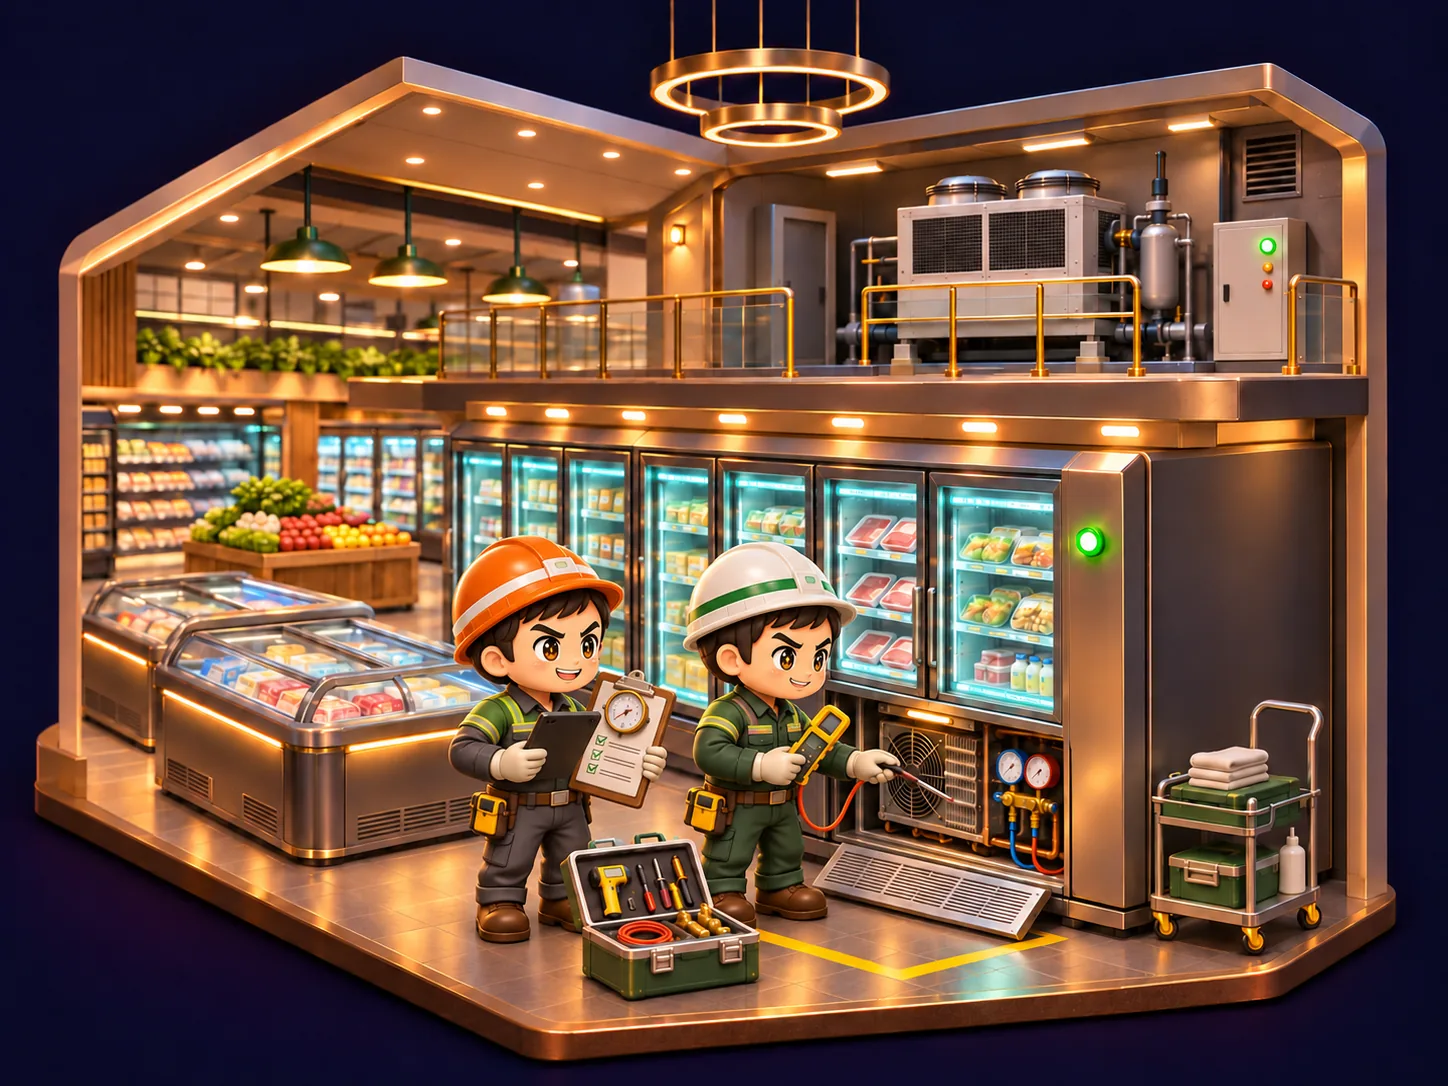
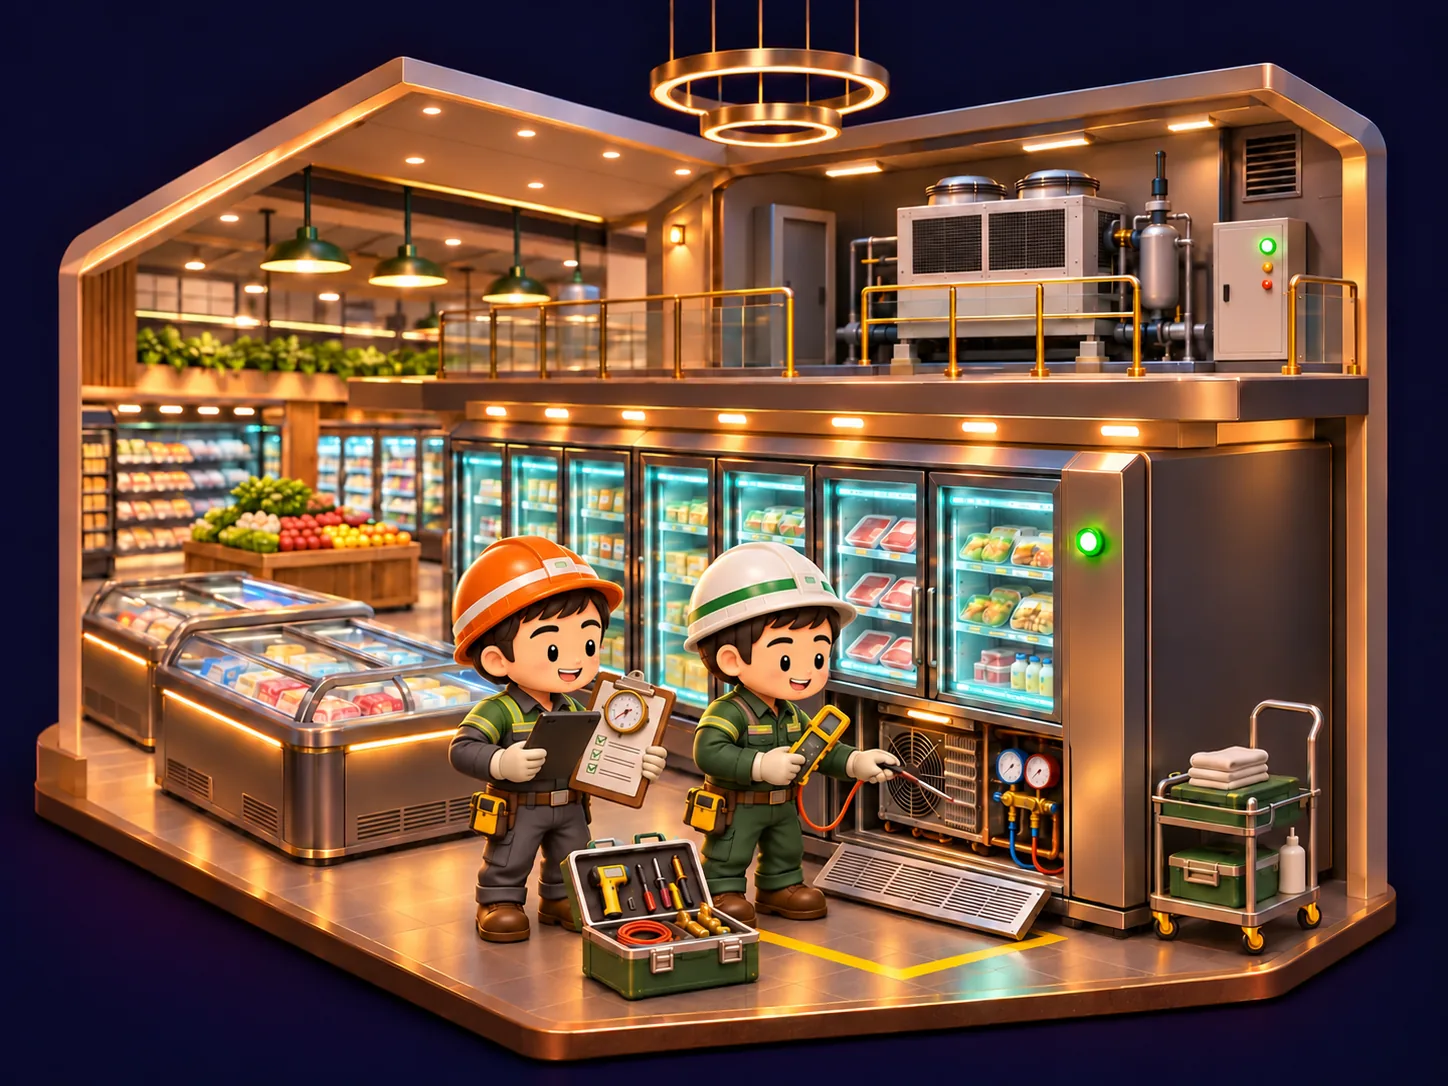
design: prepare sasugoldae thumbnails and soften mart hope expressions
Git/PR only. Keep release pending with new sasugoldae articles.

diff --git a/docs/standards/facility-content-guide-v1.4.md b/docs/standards/facility-content-guide-v1.4.md
@@ -775,6 +775,13 @@ status: "reviewed"
 - **파일 관리:** PNG 마스터는 `facility-assets/hobyeongbaekma-list-thumbnails/`, 공개 WebP는 `public/images/facility-series/list-thumbnails/`에 같은 역할의 영문 kebab-case 이름으로 보관한다. 승인 이미지 구도·비율을 보존하고 WebP만 최적화한다. 신규 글에 목록 전용 이미지가 없다면 기존 대표 이미지를 사용한다.
 - **검증·승인 경계:** 320/390px(88/96px 모바일 썸네일)과 768/1440px의 실제 카드에서 시설 종류, 절망·희망의 대비, 이미지 전체 노출·테두리·가로 넘침·제목·클릭 경로를 확인한다. 원본 PNG/WebP 크기와 비율, 본문 이미지 불변, 렌더링 성능을 점검한다. **사용자의 3개 시안 확정은 Production 배포 승인과 별개**다. 다른 시설로의 확대도 별도 판단한다.
 
+#### 5.13.13 사수골대·마트 캐릭터 썸네일 확정 기준 (2026-11-18)
+
+- 사수골대 ep.0은 4개 시설의 건물 전경과 우중충한 배경, 인물·문구 없는 에디토리얼 일러스트다. 시설별 절망·희망 8종은 시설관리 캐리커처가 일하는 입체 미니어처 화풍을 사용한다. 골프장 절망편은 원고의 예초 지원 사례를 표현한다.
+- 사수골대 희망편 4종과 마트 희망편의 눈은 작은 검은 타원형과 부드러운 곡선 눈썹으로 통일한다. 날카로운 V자 눈썹·과장된 색 홍채는 피한다. 절망편은 같은 계열의 눈에 처진 눈꺼풀·눈썹으로 고된 느낌을 준다.
+- 화풍과 단면 표현은 유지하면서 공간의 현실성을 검수한다. 실내 기계실의 화단·장식 조명, 이용 공간과 작업 구역의 모호한 경계, 막힌 점검 통로, 용도 불명 측정기를 피한다. 이 일러스트를 실제 설비 계통도나 작업 절차로 소개하지 않는다.
+- 확정 파일·압축 정보·원본 PNG 지문은 [이미지 manifest](../audits/2026-11-18-series-thumbnails/manifest.json)를 참조한다. PNG 원본은 생성 이미지에 보존하고 WebP를 Git에 보관한다. **이번 상태는 Git/PR 보관이며 main 병합·배포 전**이다. 신규 시리즈 공개와 함께 출시한다.
+
 ### 5.14 1~5번 콘텐츠 교정에서 확정된 공통 제작 워크플로 (v1.4 추가)
 
 **적용 범위:** GetPassLab `시설의 모든 것` 신규·개정 기사 전반. 자격증 기출 원문·학습 챕터에는 기존 정본 가이드를 유지한다.

diff --git a/docs/audits/2026-11-18-series-thumbnails/README.md b/docs/audits/2026-11-18-series-thumbnails/README.md
@@ -1,0 +1,20 @@
+# 사수골대·마트 목록 썸네일
+
+## 승인 및 범위
+
+2026-11-18 사용자가 기존 마트 희망편에도 부드러운 눈매를 적용하도록 요청했다. 이후 **배포하지 않고 Git까지만 업로드하며, 신규 사수골대 시리즈와 함께 출시**하도록 변경했다. 이 최종 지시가 이전 배포 요청보다 우선한다.
+
+- 교체 준비 2종: 사수골대 ep.0 목록 이미지, 호병백마 마트 희망편 목록 이미지. 작업 브랜치에만 반영하며 main·Production에는 미적용이다.
+- 사수골대 후속 8종: 현실성·눈매 수정 최종 WebP를 원고 폴더에 보관. 게시글·slug·URL을 만들거나 원고 PR #295를 병합하지 않는다.
+- 희망편은 검은 타원형 눈과 완만한 눈썹, 절망편은 피로한 눈꺼풀·눈썹을 사용한다. 화풍과 업무 장면은 유지한다.
+- 본문 원고·본문 대표 이미지·OG/canonical·공개 URL·레이아웃·의존성은 변경하지 않는다.
+- main 병합·배포는 수행하지 않는다. 원고 공개와 이번 이미지 변경은 출시 시 함께 판단한다.
+
+## 이미지 및 검증
+
+- 원본 PNG는 생성 이미지로 보존한다. [manifest.json](manifest.json)에 최종 10종의 원본/파생 SHA-256·상태·치수·압축 정보를 기록한다.
+- WebP는 1448×1086, 크롭·리사이즈 없음. 공개 ep.0은 278,588바이트, 마트 희망편은 185,386바이트다.
+- 기존 불변 검사는 새 ep.0 목록 매핑 1행만 정확히 복원하도록 확장하고, 승인된 마트 이미지 지문만 변경한다. 본문과 OG 보호 검사는 유지한다.
+- 로컬 Build 586페이지, 시설 발행·관련 링크·IA·불변 소스 보호·SEO·공개 콘텐츠 검사 PASS. SEO는 기존 경고 5개, 오류 0개다. 제품 소스 검사 이후 추가 변경은 인계/가이드/검증 문서뿐이다.
+- 로컬 Chromium은 실행 환경의 socket/프로세스 제한으로 시작하지 못했다. 로컬 반응형 브라우저 QA는 미완료이며 PR의 기존 사수골대/시설 QA에서 320·390·768·1440px를 확인한다. 실제 CI 결과는 PR Checks가 정본이다.
+- 최종 요청에 따라 Production 검증·배포는 수행하지 않았다.

diff --git a/AI_HANDOVER.md b/AI_HANDOVER.md
@@ -2,6 +2,13 @@
 
 실행 지침은 [AGENTS.md](AGENTS.md). 과거 작업은 Git·PR·[audits](docs/audits/), 이전 인계는 [레거시 문서](docs/archives/AI_HANDOVER.legacy-2026-11-08.md)를 참조한다.
 
+## 현재 보관 작업 — 사수골대·마트 썸네일 (2026-11-18)
+
+- 브랜치 `design/sasugoldae-soft-thumbnails-20261118`, 기준 `main@bfe206af1b806a81e2b29d97f667ef44f8cdd2e8`. 최종 지시는 **Git/PR까지만 업로드, 신규 사수골대 시리즈와 함께 출시**다. main 병합·Production 배포는 수행하지 않는다.
+- 사수골대 확정 9종 WebP는 `docs/drafts/facility/sasugoldae/thumbnails/`. 현실성·절망 표정·희망편의 부드러운 검은 타원 눈/곡선 눈썹을 반영했다. 마트 희망편도 같은 눈매로 수정했다.
+- 작업 브랜치에서 ep.0 목록 매핑 1행과 마트 희망편 WebP 교체만 공개 적용 준비. 본문·OG·원고·URL·CSS 유지. 후속 8편은 미발행이며 원고 보관 PR #295를 병합하지 않는다.
+- Build 586페이지, 기존 시설 발행/불변 보호·관련 링크·IA·SEO·공개 콘텐츠 검사 PASS(SEO 기존 경고 5, 오류 0). [이미지 지문·범위·검증](docs/audits/2026-11-18-series-thumbnails/README.md). 출시 시 원고와 이미지 변경을 함께 검토하고 병합·배포한다.
+
 ## 기준 상태
 
 - 갱신: **2026-11-17 KST**. 제품 기준 `main@4bd413481e5821dd89aa351aa30526d0bb3def73` ([PR #291](https://github.com/syjy813/getpasslab/pull/291) squash 병합). 후속 완료 기록은 문서만 변경한다.

diff --git a/docs/drafts/facility/sasugoldae/thumbnails/README.md b/docs/drafts/facility/sasugoldae/thumbnails/README.md
@@ -1,0 +1,8 @@
+# 사수골대 확정 썸네일 · 2026-11-18
+
+- ep.0은 인물·문구 없이 4개 시설과 먹구름을 담은 에디토리얼 전경이다.
+- 시설별 절망·희망 8종은 입체 캐리커처 화풍을 유지하고 작업 공간·동선·설비 표현을 보완했다. 골프장 절망편은 예초 지원 장면이다.
+- 희망편은 작은 검은 타원형 눈과 완만한 곡선 눈썹, 절망편은 같은 계열의 눈과 지친 표정을 공통 적용했다.
+- 이 디렉터리는 이미지 자산이며 게시글 식별자·slug·공개 URL을 정의하지 않는다. 후속 8편은 미발행 상태다. 원고 보관 PR #295는 별도 작업으로 유지한다.
+- 작업 브랜치에서 ep.0만 기존 공개 글의 목록 카드에 연결한다. 기존 본문 대표 이미지·OG·원고는 유지한다. 최종 사용자 지시에 따라 Git 업로드까지만 수행하고, 신규 시리즈와의 동시 출시 전까지 main 병합·배포하지 않는다.
+- PNG 원본은 제작 대화의 생성 이미지에 보존하고, 이곳에는 리사이즈·크롭 없는 1448×1086 WebP를 보관한다. 최종 파일·원본 PNG 지문·용량·상태는 [manifest](../../../../audits/2026-11-18-series-thumbnails/manifest.json)가 정본이다.
